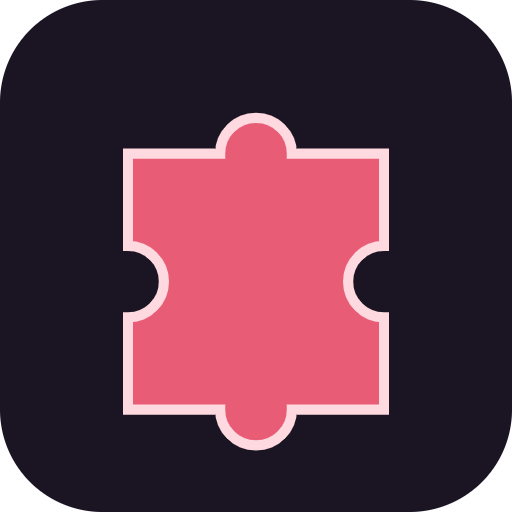
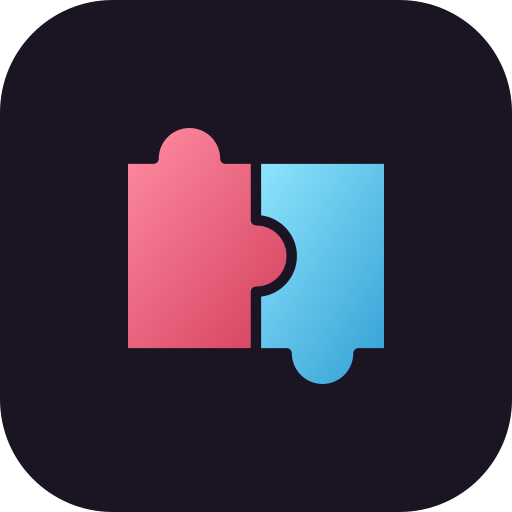
Ikon: birbirine gecmis iki parca, tam ortalanmis
Kayma gercekten vardi ve olculdu. Eski ikon 512'lik karede 51 piksel asagi
oturuyordu: ustte 112, altta 61 piksel bosluk. Yatayda sorun yoktu. Cizim
kutusu da 266x339 ile uzundu.

Yeni ikonda yedi PNG'nin hepsinde sol/sag ve ust/alt bosluk birebir esit,
cizim kutusu 256x256 (tam kare).

Ne degisti
- Tek parca yerine birbirine gecmis iki parca. Uygulamanin adi "Birlikte"
  ama ikon tek parca gosteriyordu.
- Renkler uydurma degil, oyunun kendi oyuncu paletinden (board.ts peerColor):
  #e85d75 ve #56ccf2 - odadaki iki kisinin imlec renkleri.
- Her parcada degrade, aradaki dikis zemin renginde ince konturla ayrildi.
  16 pikselde tirnaklar kayboluyor ama iki renk ayri ayri okunuyor; eski
  ikon o boyutta tek pembe lekeydi.
- Merkezleme tesadufe birakilmadi: cikinti ustte-solda ve altta-sagda,
  180 derece donme simetrisi merkezi kendiliginden koruyor.

Yol boyunca cikan iki ayri hata
- Kare varyant yoktu. iOS ve Android ikona kendi maskesini uyguluyor; onden
  yuvarlatilmis PNG orada cift yuvarlak / kesik kose veriyor. apple-touch-icon*
  ve yeni icon-512-maskable.png artik kare zeminli; yuvarlatma yalnizca
  tarayici sekmesinde kullanilan dosyalarda. Manifest'teki maskable girdisi de
  yuvarlak icon-512.png'yi gosteriyordu, duzeltildi. Cizim maskable guvenli
  dairesine de sigdirildi (merkeze uzaklik 38,2 < 40).
- sw.js eski ikonu servis etmeye devam edecekti. Kabuk dosyalari
  birlikte-puzzle-v1 altinda onbellekte ve activate yalnizca farkli anahtarli
[…]

diff --git a/public/sw.js b/public/sw.js
@@ -2,7 +2,10 @@
 // Vite hash'li dosya adları ürettiği için kabuk dışındaki varlıklar çalışma anında
 // stale-while-revalidate ile önbelleğe alınır.
 
-const CACHE = 'birlikte-puzzle-v1'
+// Kabuk dosyalarının içeriği aynı adla değişirse sürümü artır: activate eski
+// önbelleği siliyor. Artırılmazsa kurulu uygulama eski ikonu göstermeye devam
+// ediyor (fetch stale-while-revalidate, yani ancak bir sonraki açılışta düzelir).
+const CACHE = 'birlikte-puzzle-v2'
 const SHELL = [
   './',
   './index.html',
@@ -10,6 +13,7 @@ const SHELL = [
   './icon.svg',
   './icon-192.png',
   './icon-512.png',
+  './icon-512-maskable.png',
   './samples/gunbatimi.svg',
   './samples/kalpler.svg',
   './samples/gece.svg',

diff --git a/CLAUDE.md b/CLAUDE.md
@@ -268,6 +268,26 @@ Kural: **kare başına yapılan iş parça sayısıyla büyümemeli.**
   görünüyor. "Çıktım" bildirimi göndermek gerekmiyor. Damga dakikada bir,
   yalnızca sekme öndeyken atılıyor; okuma penceresi 2 dakika (`cevrimiciMi`).
 
+## İkon ve service worker
+
+- **Kaynak `public/icon.svg`, PNG'ler ondan üretiliyor.** Üretme komutu ve
+  gerekçeler dosyanın kendi içinde yorumda. Bir PNG'yi elle düzenleme —
+  yedisi birden tutarsız kalır.
+- **Yuvarlak köşe yalnızca `icon.svg` ve `icon-*.png`'de.**
+  `apple-touch-icon*` ve `icon-512-maskable.png` **kare** olmalı: iOS ve
+  Android kendi maskesini uyguluyor, önden yuvarlatılmış ikon orada çift
+  yuvarlak ya da kesik köşe veriyor.
+- **Maskable ikon dairesine sığ.** Android `purpose: "maskable"` ikonu 80%
+  çapında bir daireye kırpıyor; 100x100 tuvalde çizim merkezden 40 birimden
+  uzağa taşmamalı. Bugünkü çizim 38,2'de.
+- **Ortalamayı gözle değil ölçerek doğrula.** Eski ikon 512'lik karede 51
+  piksel aşağı kaymıştı (üstte 112, altta 61 boşluk) ve kimse fark etmemişti.
+  Tuvale çizip zemin renginden farklı piksellerin sınır kutusuna bak.
+- **`sw.js`: kabuk dosyası aynı adla değişirse `CACHE` sürümünü artır.**
+  `activate` yalnızca *farklı* anahtarlı önbellekleri siliyor; artırmazsan
+  kurulu uygulama eski dosyayı vermeye devam ediyor. Yeni bir kabuk dosyası
+  eklediysen `SHELL` listesine de yaz.
+
 ## Sırlar ve dağıtım
 
 - `.env` git'te izlenmiyor; şablon `.env.example`. Üretim değerleri **GitHub
